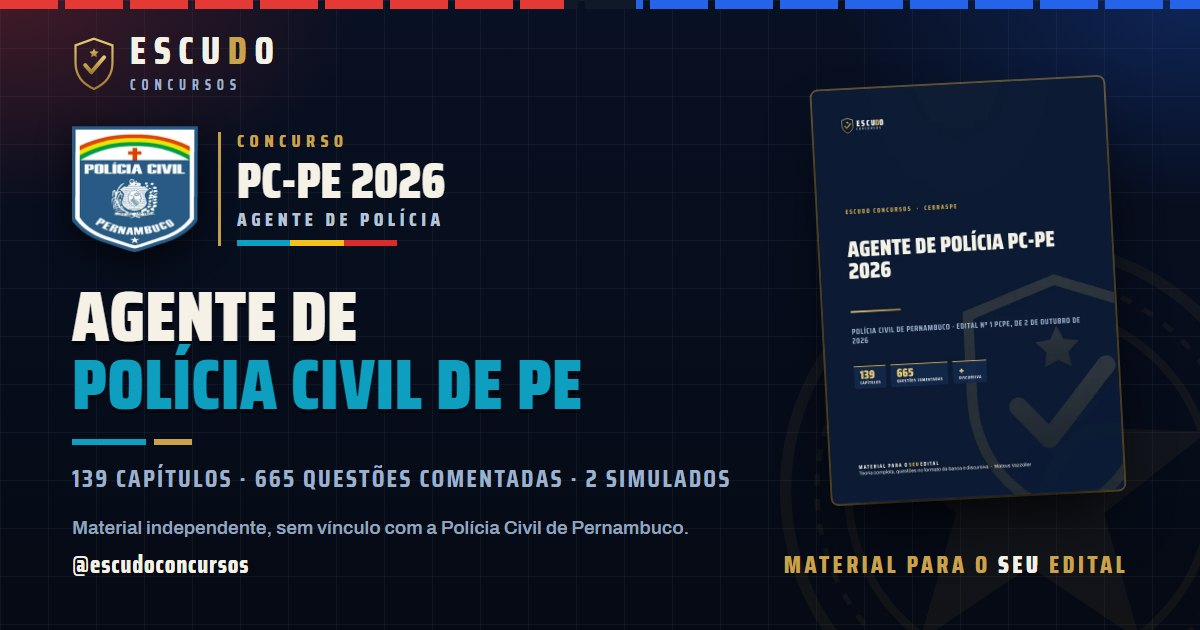
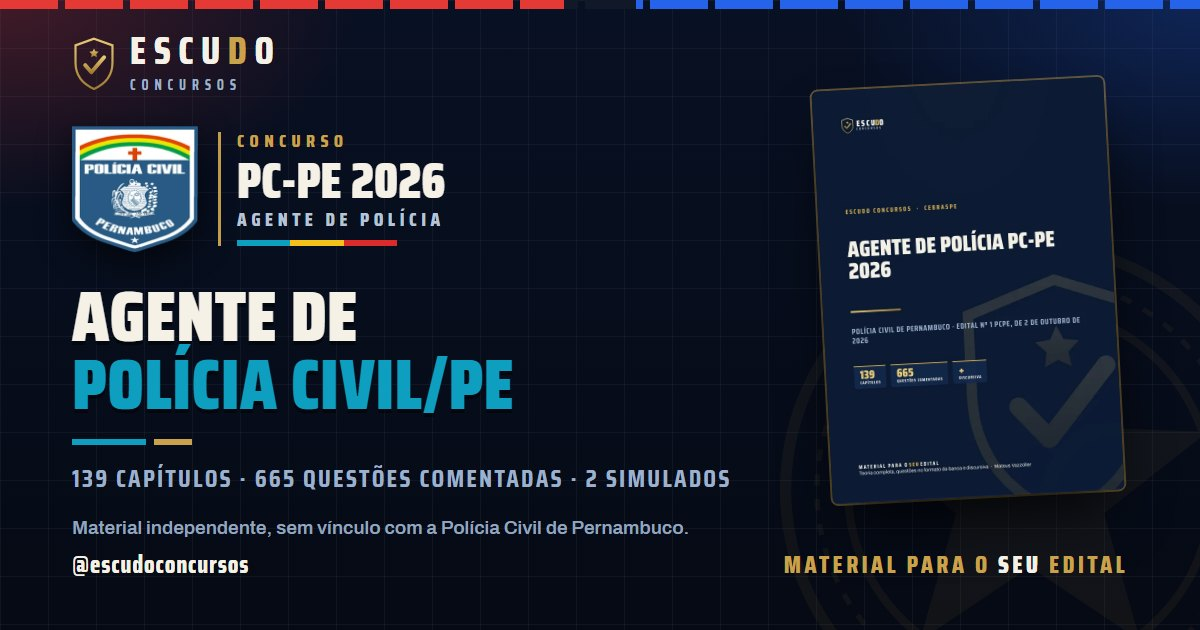
Título /PE nas capas de PMPE, CBMPE e PC-PE (produto, OG e H1)

Changed region(s): [[0.3392, 0.573, 0.4933, 0.6635]]

diff --git a/pcpe-agente-2026/index.html b/pcpe-agente-2026/index.html
@@ -71,7 +71,7 @@
       </div>
       <p class="etq"><span>Briefing</span></p>
       <p class="kicker">PC-PE 2026 · Curso em PDF</p>
-      <h1 id="titulo">Agente de <em>Polícia Civil de PE</em></h1>
+      <h1 id="titulo">Agente de <em>Polícia Civil/PE</em></h1>
       <hr class="regua">
     </div>
     <div class="h-resto">

diff --git a/cbmpe-soldado-2026/index.html b/cbmpe-soldado-2026/index.html
@@ -71,7 +71,7 @@
       </div>
       <p class="etq"><span>Briefing</span></p>
       <p class="kicker">CBMPE 2026 · Curso em PDF</p>
-      <h1 id="titulo">Soldado dos <em>Bombeiros de PE</em></h1>
+      <h1 id="titulo">Soldado dos <em>Bombeiros/PE</em></h1>
       <hr class="regua">
     </div>
     <div class="h-resto">

diff --git a/pmpe-soldado-2026/index.html b/pmpe-soldado-2026/index.html
@@ -71,7 +71,7 @@
       </div>
       <p class="etq"><span>Briefing</span></p>
       <p class="kicker">PMPE 2026 · Curso em PDF</p>
-      <h1 id="titulo">Soldado da <em>PM de Pernambuco</em></h1>
+      <h1 id="titulo">Soldado da <em>PM/PE</em></h1>
       <hr class="regua">
     </div>
     <div class="h-resto">

diff --git a/_config/gerar_imagens.py b/_config/gerar_imagens.py
@@ -80,7 +80,7 @@ h1 em{font-style:normal;color:%s;display:block}
            selo, cargo, h1a, h1b, sub, aviso, (IMG / pasta / capa).as_uri())
 
 
-PMPE = policial("pmpe", "brasao-pmpe.webp", "capa.webp", "PMPE 2026", "Soldado", "Soldado da", "PM de Pernambuco",
+PMPE = policial("pmpe", "brasao-pmpe.webp", "capa.webp", "PMPE 2026", "Soldado", "Soldado da", "PM/PE",
                 "116 capítulos · 550 questões comentadas · 2 simulados", "Material independente, sem vínculo com a PMPE.",
                 "#E25450", "#D9534F", ("#14924A", "#F4C21B", "#DC2B2B"))
 
